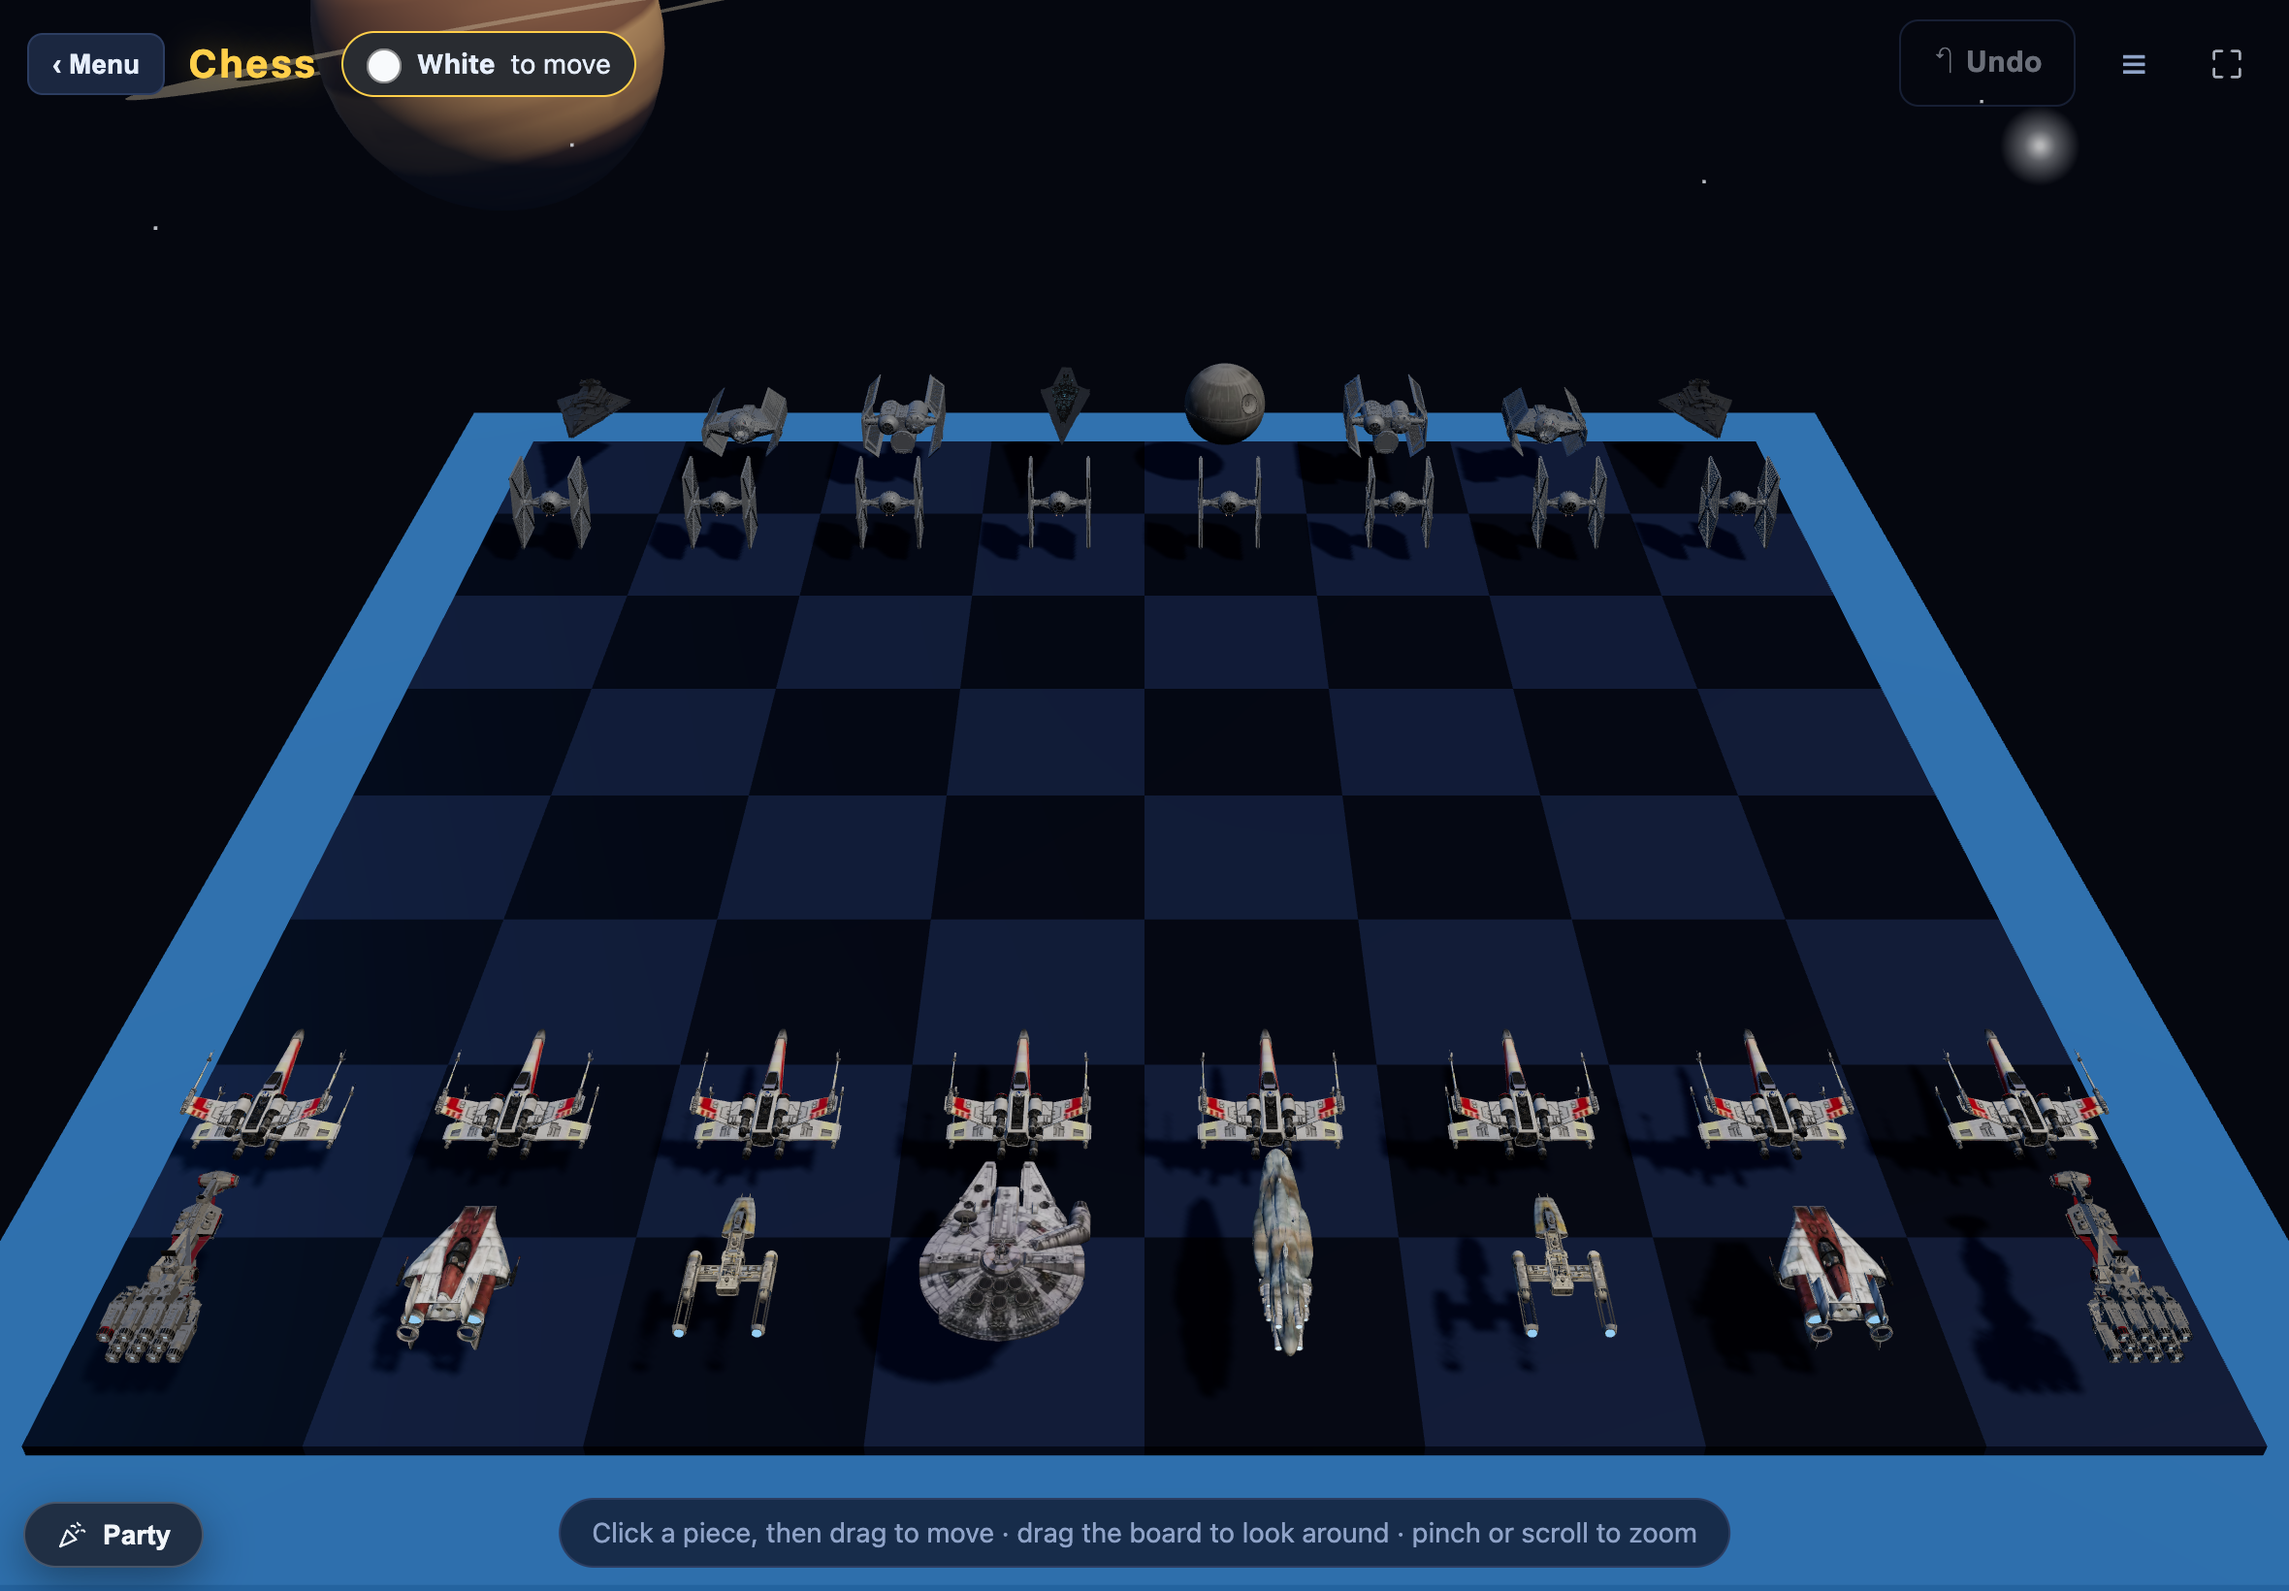
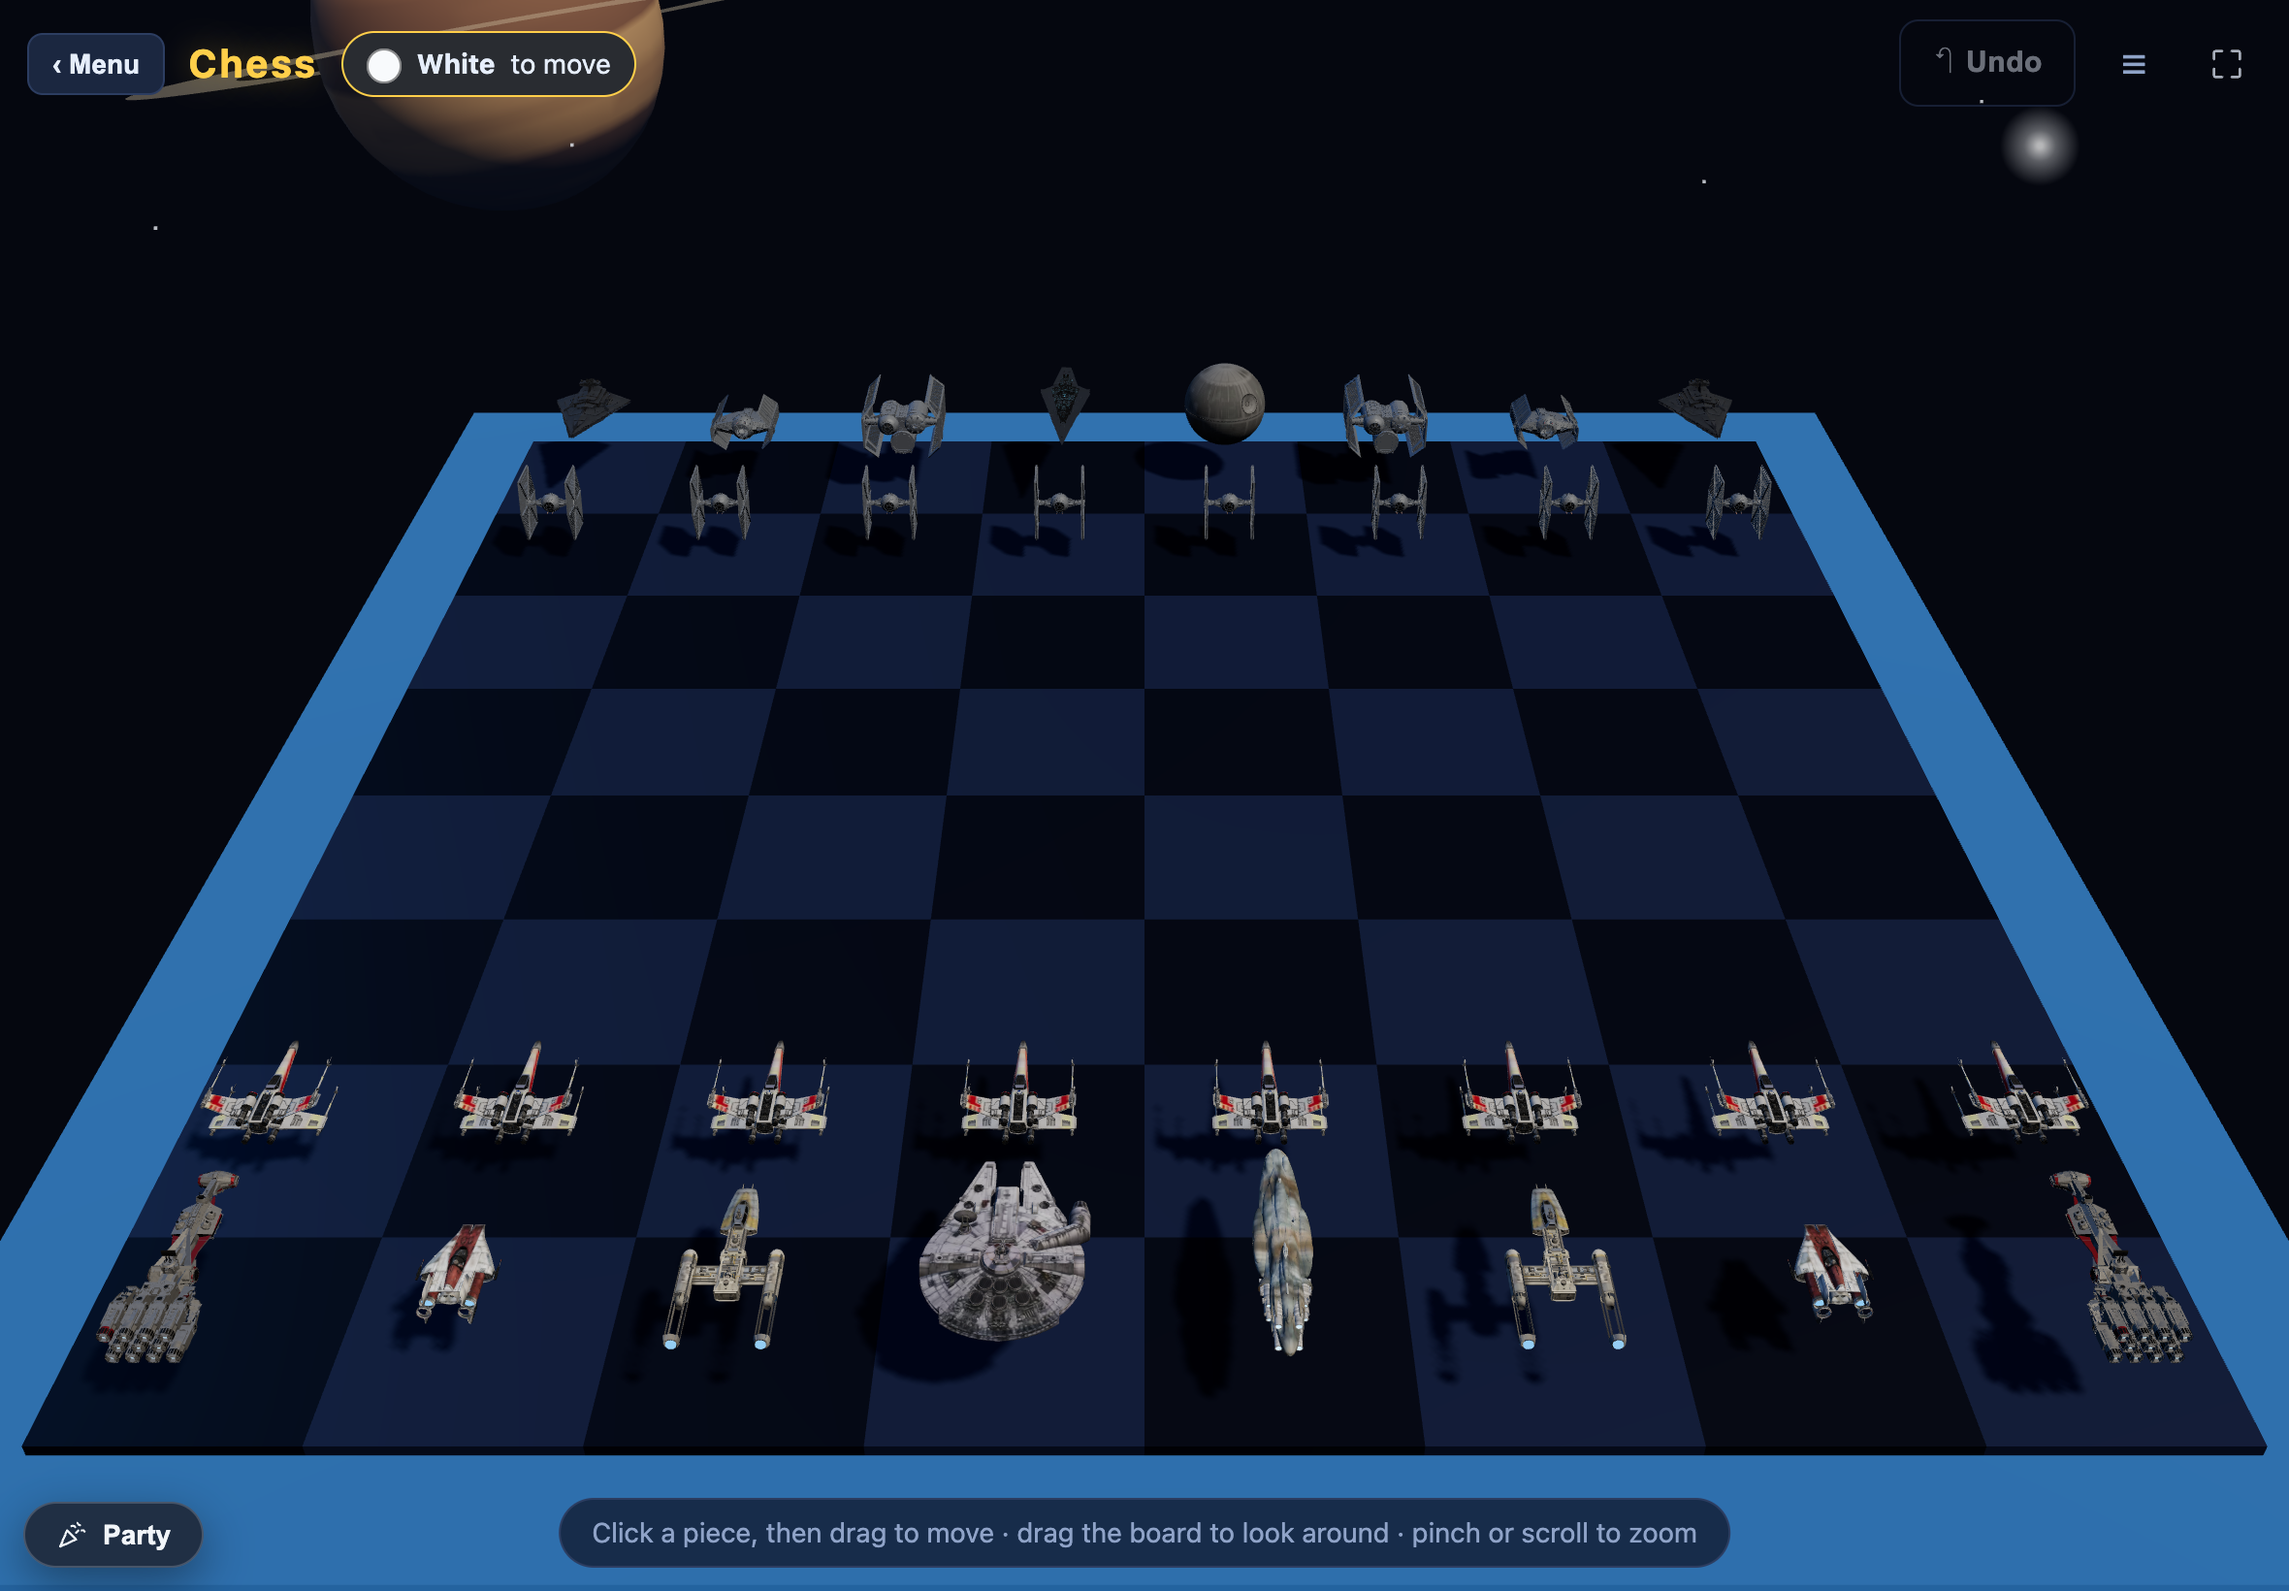
tune(chess): family sizing pass - fighters shrink, Y-wing grows
Review night verdict on the completed set: the fighters read too big
next to the capitals. Five numbers move:

  - X-wing pawns and the whole TIE family shrink 20% together (the
    family called their relative proportions right): wp 0.68 -> 0.54,
    bp 0.41 -> 0.33, Vader's TIE 0.46 -> 0.37
  - A-wing knights come down 30%: 0.62 -> 0.43
  - Y-wing bishops grow into their rank: 0.68 -> 0.78

Capitals unchanged. The board now reads fighters-as-escorts,
capitals-in-command. All shrinks add floor clearance; the bigger
Y-wing still floats 0.37 above the board at the bob's low point.

Gates on bare exit codes: check 0, vitest 0 (565/565), build 0;
chess-galaxy screenshot regenerated.

Claude-Session: https://claude.ai/code/session_0146VWPAYsAFebJ5DNhYKXg7

diff --git a/src/games/chess/components/three/ChessScene.ts b/src/games/chess/components/three/ChessScene.ts
@@ -647,7 +647,11 @@ export class ChessScene {
        *  the rook and Vader's TIE flying stern-first at the rebels). */
       face?: number;
     }[] = [
-      { key: 'wp', url: galaxyWhitePawnUrl },
+      // Family sizing pass (review night, 2026-08-23): the fighters read too
+      // big once the capitals landed. X-wing and the TIE family shrink 20%
+      // together (they were proportioned right relative to each other), the
+      // A-wing comes down 30%, and the Y-wing grows into its bishop rank.
+      { key: 'wp', url: galaxyWhitePawnUrl, fit: 0.54 },
       // The white queen is the fastest hunk of junk in the galaxy — fully
       // textured and watertight from the artist, so no regrade, no baffle.
       // First codex export with the nose already at +z: the standard
@@ -656,11 +660,11 @@ export class ChessScene {
       // The rest of the rebel fleet, one drop: all textured, watertight,
       // noses at +z, engines glowing — every convention landed, so these
       // four need nothing but a footprint and a hover height.
-      { key: 'wn', url: galaxyWhiteKnightUrl, fit: 0.62, hover: 0.38 },
-      { key: 'wb', url: galaxyWhiteBishopUrl, fit: 0.68, hover: 0.42 },
+      { key: 'wn', url: galaxyWhiteKnightUrl, fit: 0.43, hover: 0.38 },
+      { key: 'wb', url: galaxyWhiteBishopUrl, fit: 0.78, hover: 0.42 },
       { key: 'wr', url: galaxyWhiteRookUrl, fit: 0.85, hover: 0.44 },
       { key: 'wk', url: galaxyWhiteKingUrl, fit: 1.0, hover: 0.5 },
-      { key: 'bp', url: galaxyBlackPawnUrl, greyward: 0.62, glass: ['DarkWindow'], fit: 0.41 },
+      { key: 'bp', url: galaxyBlackPawnUrl, greyward: 0.62, glass: ['DarkWindow'], fit: 0.33 },
       // The imperial landing craft — same dark material family as the TIE,
       // so the same grey regrade and black cockpit glass apply.
       { key: 'bb', url: galaxyBlackBishopUrl, greyward: 0.62, glass: ['DarkWindow'], fit: 0.5, hover: 0.42 },
@@ -669,7 +673,7 @@ export class ChessScene {
       // the rank-and-file. Its cockpit pane is named per-part, not DarkWindow.
       // Vader's TIE exports nose at -z (cockpit-window centroid z=-0.83) —
       // `face` spins it to fly at the rebels like everyone else.
-      { key: 'bn', url: galaxyBlackKnightUrl, greyward: 0.5, glass: ['Sphere04_windowblack'], fit: 0.46, hover: 0.38, face: Math.PI },
+      { key: 'bn', url: galaxyBlackKnightUrl, greyward: 0.5, glass: ['Sphere04_windowblack'], fit: 0.37, hover: 0.38, face: Math.PI },
       // The capital ships are daggers — the Executor famously eleven times
       // longer than wide — so square-sized lengths render them as slivers.
       // They overhang their square along the file instead (they fly with
